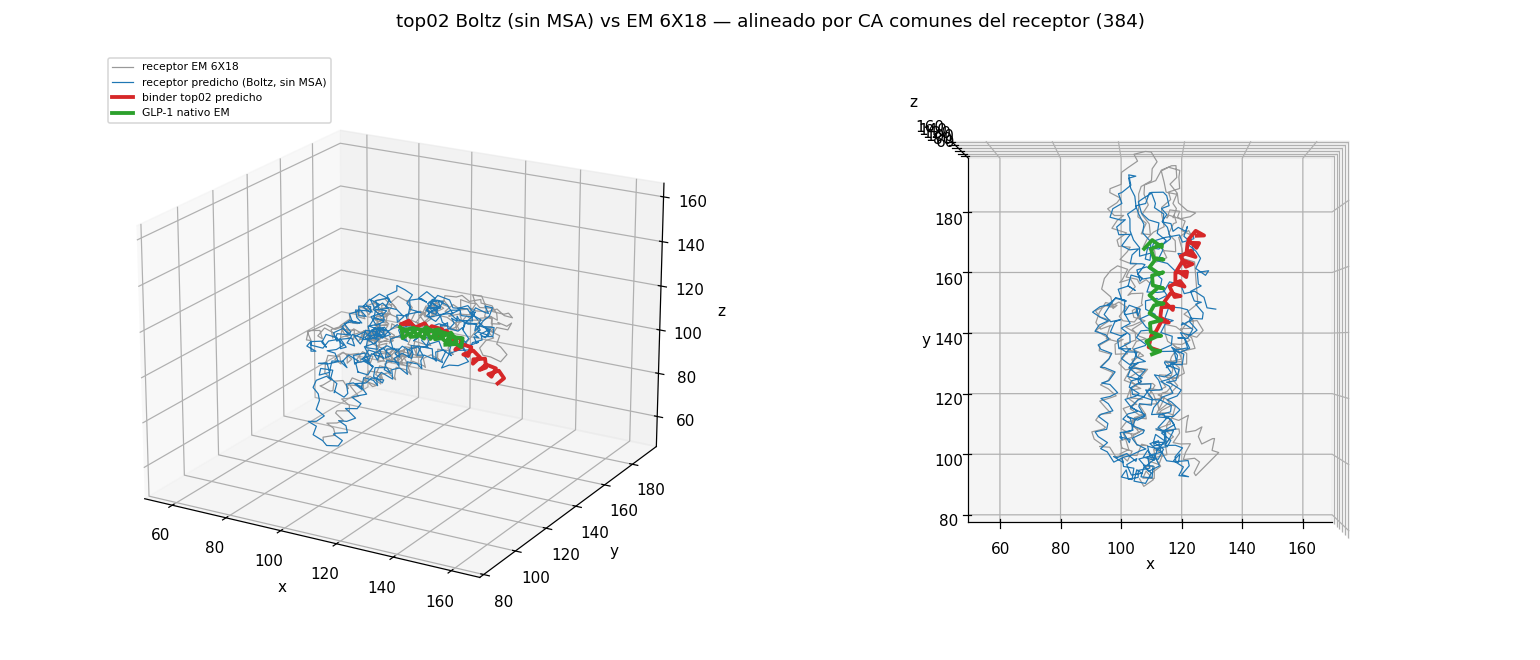
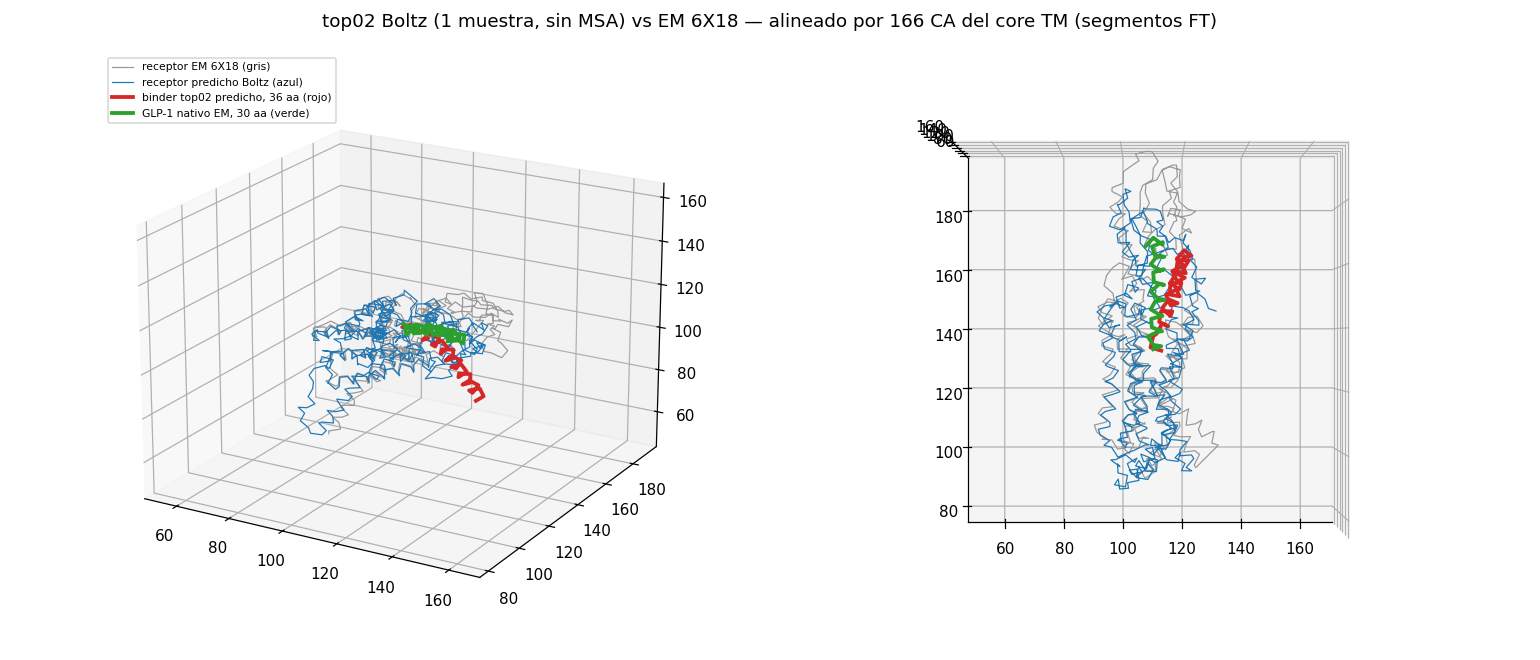
figura realineada por core TM (166 CA); binder vs nativo como distancia vecino-mas-cercano por mitades (3.9/15.2 A), no RMSD

diff --git a/challenge3/results/boltz_kaggle/verificacion_boltz_resultados.md b/challenge3/results/boltz_kaggle/verificacion_boltz_resultados.md
@@ -35,7 +35,11 @@ Referencia: EM 6X18 (receptor 384 CA observados UP 29-423 + GLP-1 7-36) y comple
   (166 CA de los 7 segmentos FT): top02 2.59 Å, nativo 2.57 Å. El desvío global viene del ECD,
   loops y cola citoplasmática, no del bolsillo TM.
 - Binder top02 vs pose de diseño (complejo_v6, mismo receptor de referencia): 5.20 Å CA-RMSD.
-- Binder top02 vs péptido nativo EM: distancia media al CA más cercano 7.6 Å.
+- Binder top02 (36 aa) vs péptido nativo EM (30 aa): NO se usa RMSD (longitudes distintas, sin mapa
+  1:1 justificado). Medida: distancia de cada CA del binder al CA nativo más cercano, con el receptor
+  alineado por 166 CA del core TM. Media global 10.5 Å, pero por mitades: res 1-15 = 3.9 Å (el
+  N-terminal del binder sigue la trayectoria nativa, varios a ~2 Å), res 16-36 = 15.2 Å (la mitad
+  C-terminal diverge hasta 25 Å). Mapeo residuo a residuo completo en analiza_result.json/stdout.
 - Péptido nativo predicho vs su pose EM real: 34.3 Å — el modelo NO reproduce el modo de unión nativo.
 - Contactos de interfaz (<4.5 Å, receptor en numeración UniProt):
   top02: 45 residuos en ECD (29-148) y bolsillo TM/ECL (197-217, 233-237, 298-310, 364, 375-388)
@@ -49,7 +53,9 @@ Referencia: EM 6X18 (receptor 384 CA observados UP 29-423 + GLP-1 7-36) y comple
 - El control nativo bajo (0.366) NO autentica agonismo ni unión del nativo: el modelo tampoco
   reproduce la pose nativa experimental (34 Å).
 - Esto NO es un diseño validado. Es una comprobación de coherencia con resultado favorable y acotado.
-- Figura comparativa: comparativa_top02_vs_6X18.png (trazas CA; inspección visual realizada).
+- Figura comparativa: comparativa_top02_vs_6X18.png (trazas CA, alineada por 166 CA del core TM;
+  gris = receptor EM 6X18, azul = receptor predicho, rojo = binder top02 36 aa, verde = GLP-1 nativo
+  EM 30 aa; inspección visual realizada).
 
 ## 6. Incidencias de esta verificación (transparencia)
 - Mi primera pasada de alineamiento tenía un bug en la convención de Kabsch (RMSD receptor 52 Å,
